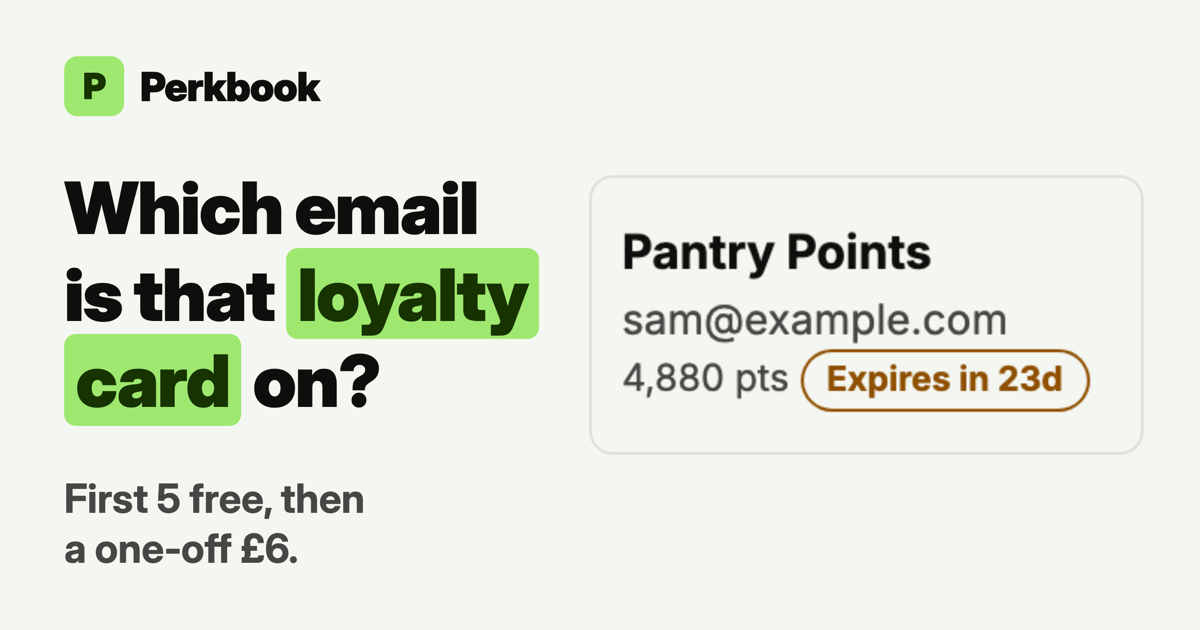
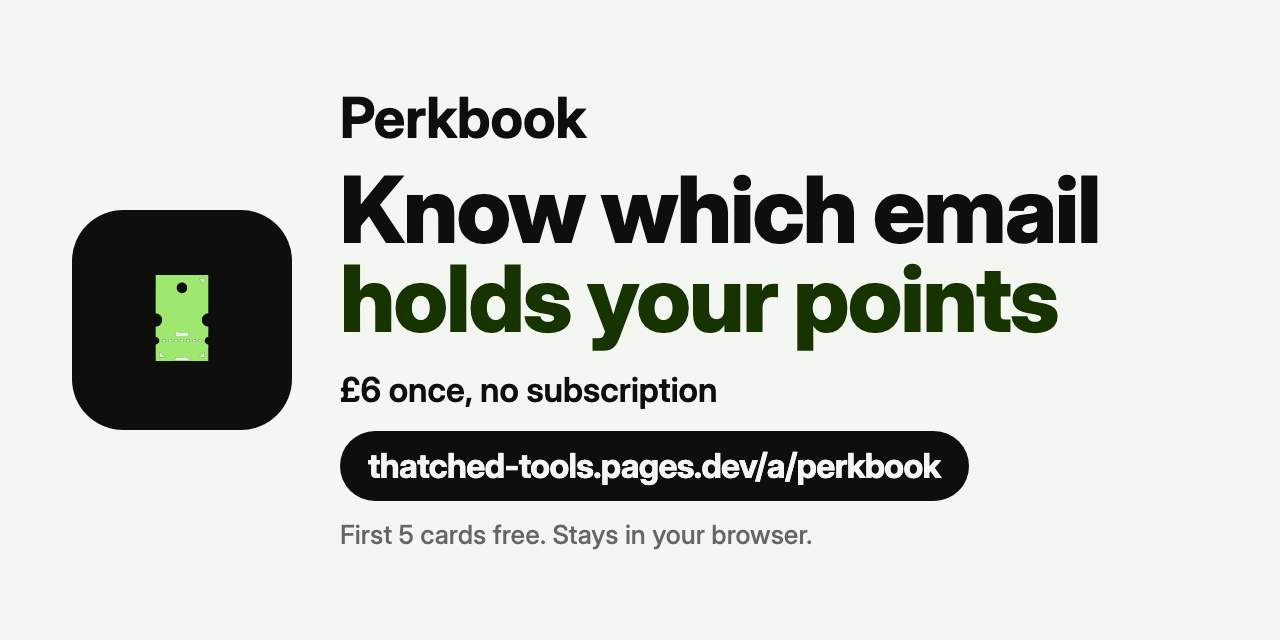
Perkbook: one page for all your loyalty cards, grouped by email

Changed region(s): [[0.0308, 0.2714, 0.925, 0.8746], [0.0308, 0.0905, 0.4625, 0.2413], [0.0308, 0.8444, 0.2467, 0.9048]]

diff --git a/README.md b/README.md
@@ -1,5 +1,31 @@
-![Perkbook banner: a private list of your loyalty cards and the email or phone you used for each one.](banner.png)
+![Perkbook banner: one web page for all your loyalty cards, grouped by the email you used](banner.png)
 
-### Perkbook
-A private list of your loyalty cards and the email or phone you used for each one. Add member number, points, expiry, login page and notes; view them grouped by email. No account needed: data stays in your browser's local storage, with free CSV/JSON export. First 5 cards free, then a one-off £6.
-[Try Perkbook](https://thatched-tools.pages.dev/go/perkbook/readme)
+# Perkbook
+
+**Loyalty cards on too many emails?** Perkbook is one web page for all your loyalty and rewards cards, each listed with the email or phone you signed up with.
+
+**Try it: https://thatched-tools.pages.dev/go/perkbook/readme**
+
+## What it does
+- Know which email holds your points: the **By email / phone** view groups every programme under the inbox or number it is on.
+- Keep member number, points, points expiry date, login page and notes next to each card.
+- You type it in yourself: Perkbook never logs in to any account and does not look anything up.
+- Your list stays in your browser.
+
+## How to use
+1. Open the page and enter your email to start.
+2. Add a programme and the email or phone it is registered with, or load the sample data in one click.
+3. Switch to **By email / phone** to see each inbox and the cards on it.
+
+## Free and paid
+- Free: your first 5 programmes, CSV export, JSON backup and import.
+- Full version: £6, paid once, no subscription. Adds unlimited programmes, a password-locked backup file and .ics expiry reminders a month before.
+
+## Status
+Working, checked in Chrome. Other browsers not all checked yet.
+
+## Help
+Questions or ideas: open an issue in this repo.
+
+## About this repo
+This repo holds the README and banner only; no code is published here. Perkbook runs at the link above.
